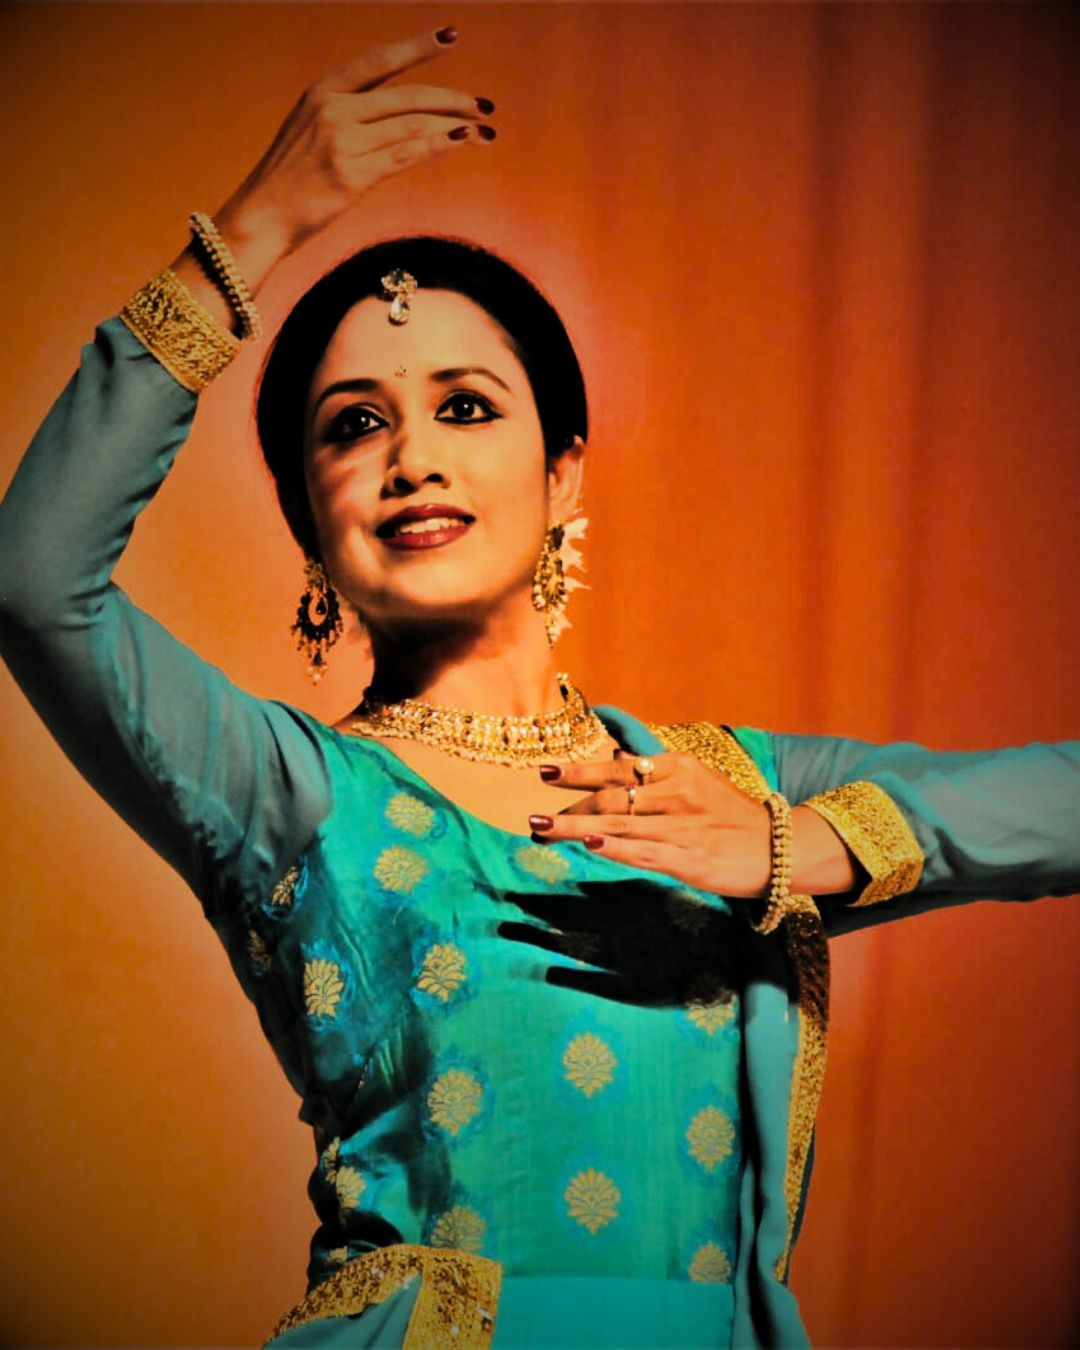
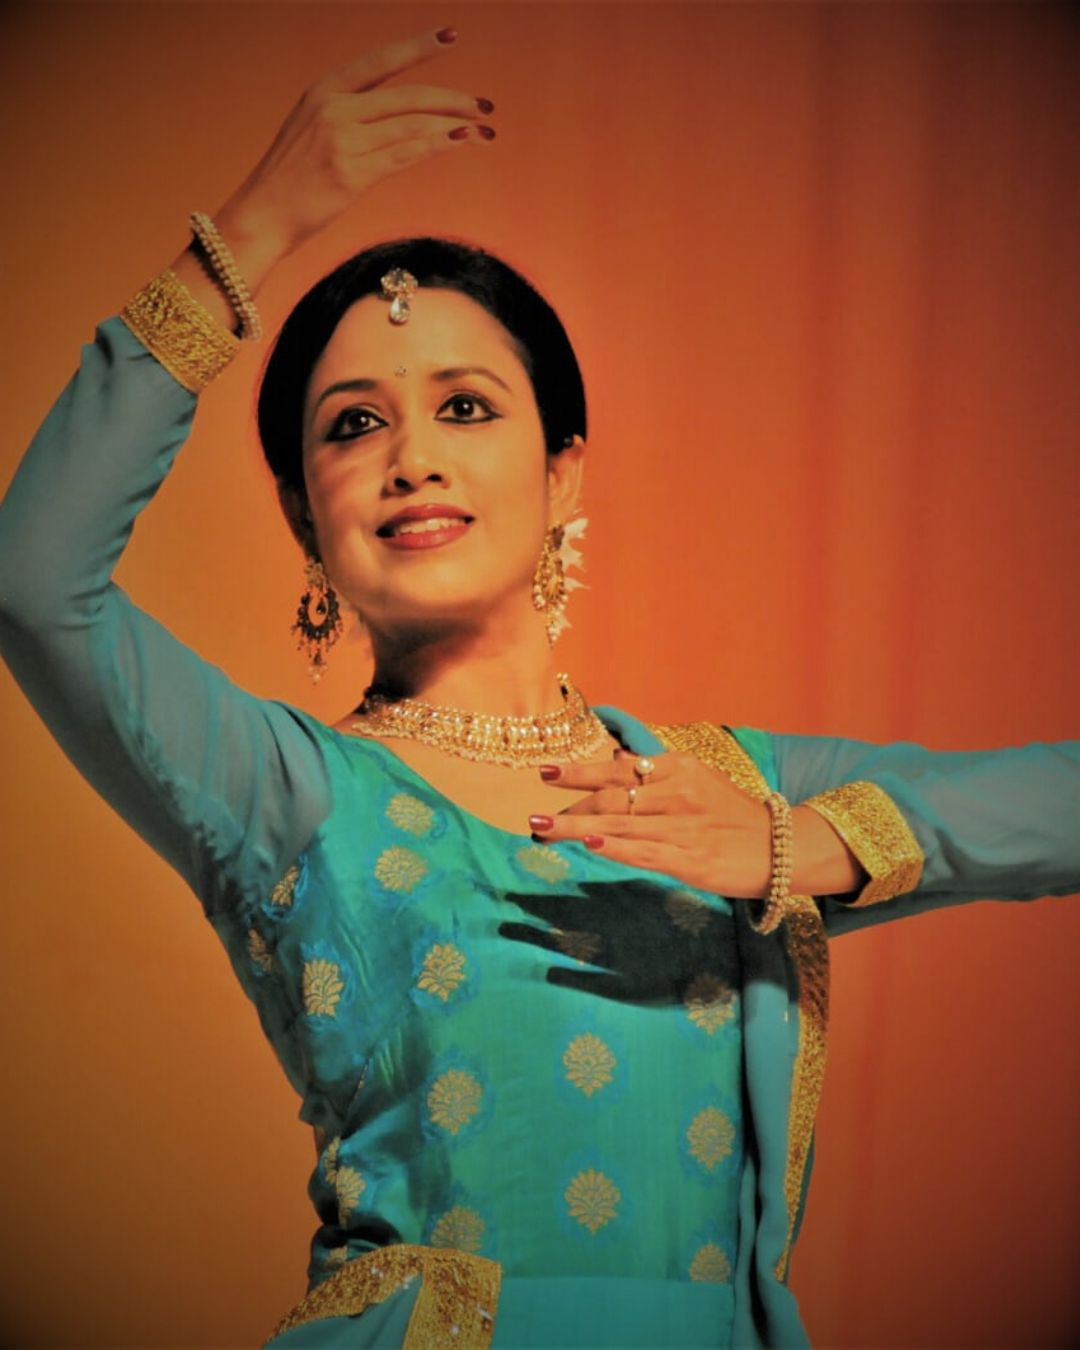
Edited Meta Data + Minor Bug Fixes

diff --git a/src/components/homeImage.jsx b/src/components/homeImage.jsx
@@ -6,7 +6,7 @@ export default function HomeImageLoad() {
     <div className="flex flex-col items-center gap-6 p-8">
       <div className="relative overflow-hidden rounded-2xl shadow-2xl dark:border-neutral-800">
         <DitherShader
-          src="/rdasHome2.jpg"
+          src="/rdasHome.jpg"
           gridSize={1}
           ditherMode="bayer"
           colorMode="grayscale"

diff --git a/src/app/layout.js b/src/app/layout.js
@@ -8,8 +8,8 @@ const ubuntu = Ubuntu({
 });
 
 export const metadata = {
-  title: "Create Next App",
-  description: "Generated by create next app",
+  title: "Home",
+  description: "Landing Page for Rinku Das Portfolio",
 };
 
 export default function RootLayout({ children }) {
